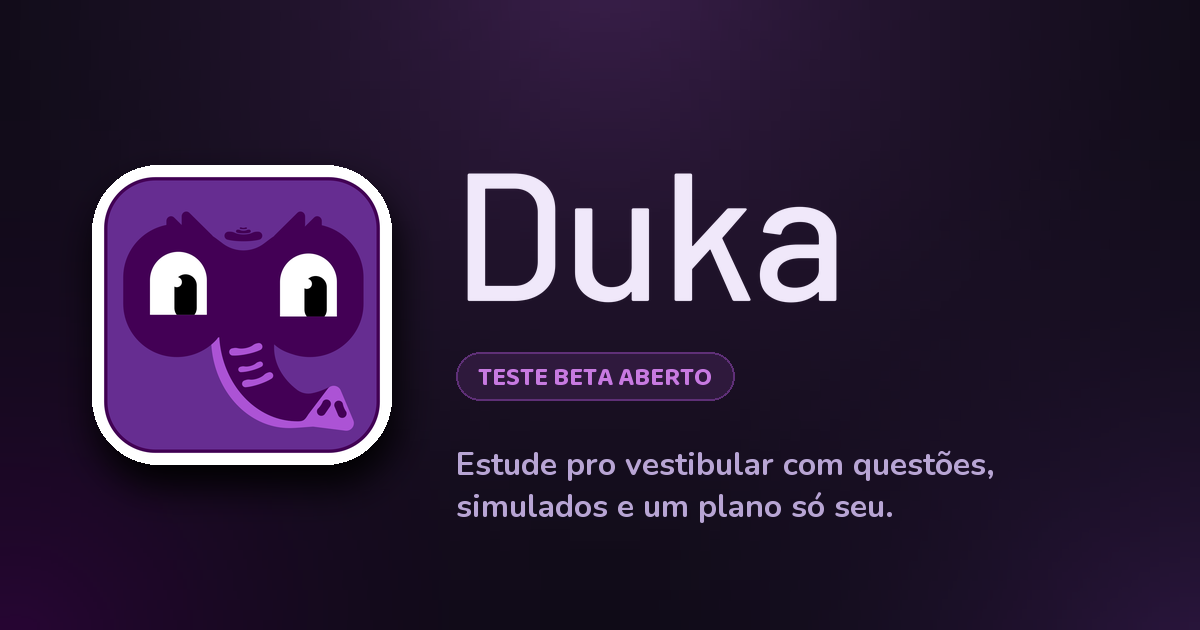
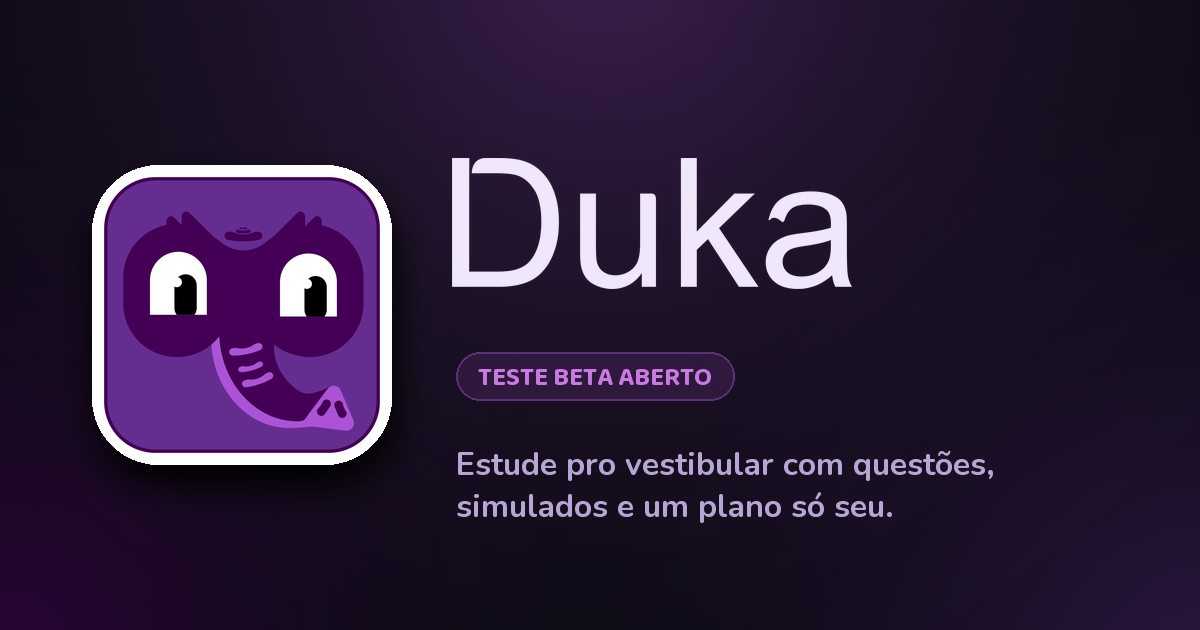
Logomarca oficial no título e na prévia do link
O título "Duka" era texto em Barlow; agora é o desenho oficial do Ian
(Path_app/icons/oficial), pintado com a cor do texto. og.png regerada com
a marca nova; o gerar-og.py apontava pro disco G: antigo e agora acha o
Path_app como pasta irmã.

Changed region(s): [[0.37, 0.2413, 0.7092, 0.4825]]

diff --git a/public/index.html b/public/index.html
@@ -130,14 +130,13 @@ body {
 .mark .cls-4, .mark .cls-5, .mark .cls-6 { stroke-width: 0; }
 
 .wordmark {
-  font-family: var(--mark);
-  font-weight: 500;
-  font-size: 46px;
-  letter-spacing: -.01em;
-  text-align: center;
-  margin: 14px 0 0;
-  color: var(--text);
-  line-height: 1;
+  /* Logomarca oficial (Path_app/icons/oficial, 12/11/2026) na cor do texto */
+  display: block;
+  width: 150px; height: 49px;
+  margin: 14px auto 0;
+  background: var(--text);
+  -webkit-mask: url(/duka-logomarca.svg) no-repeat center / contain;
+          mask: url(/duka-logomarca.svg) no-repeat center / contain;
 }
 
 .selo {
@@ -370,7 +369,7 @@ footer .sep { opacity: .4; margin: 0 8px; }
 
 @media (max-width: 380px) {
   .card { padding: 28px 16px 22px; }
-  .wordmark { font-size: 40px; }
+  .wordmark { width: 130px; height: 43px; }
   .passo { grid-template-columns: 30px 1fr; gap: 11px; }
   .n { width: 30px; height: 30px; font-size: 14px; }
 }
@@ -439,7 +438,7 @@ footer .sep { opacity: .4; margin: 0 8px; }
     </g>
   </svg>
 
-  <p class="wordmark">Duka</p>
+  <p class="wordmark" role="img" aria-label="Duka"></p>
   <span class="selo">Beta fechado &middot; iPhone e Android</span>
 
   <!-- ══════════════════════════════════════════════════════════

diff --git a/scripts/gerar-og.py b/scripts/gerar-og.py
@@ -17,7 +17,7 @@ from PIL import Image, ImageDraw, ImageFilter, ImageFont
 
 AQUI = Path(__file__).resolve().parent
 PROJETO = AQUI.parent
-PATH_APP = Path(r"G:\ian\prog\Path_app")
+PATH_APP = Path(__file__).resolve().parents[2] / "Path_app"  # irmão desta pasta (era G:, o disco mudou de letra)
 
 SAIDA = PROJETO / "public" / "og.png"
 ICONE = PROJETO / "public" / "icon.png"
